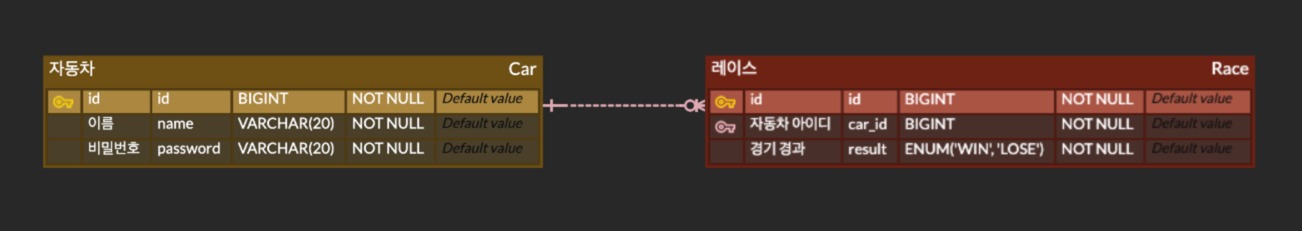
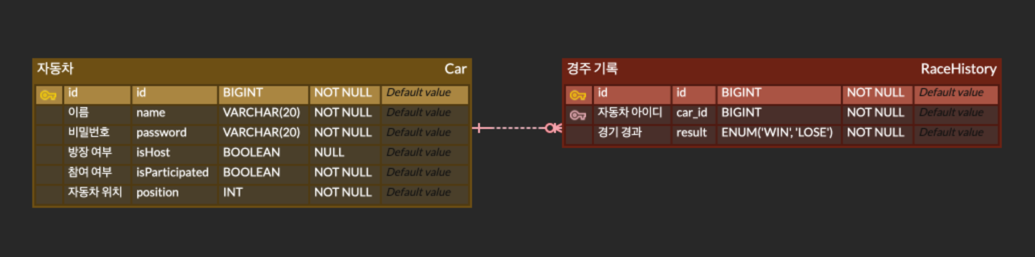
docs: README 업데이트
- 기능 설명 및 시연 추가
- swagger 이미지 추가
- erd 이미지 수정

diff --git a/README.md b/README.md
@@ -1,21 +1,64 @@
-# 오픈 미션
-## 실시간 자동차 경주
+# 오픈 미션 - 실시간 자동차 경주
 
-### 기능 기획
-- 접속하는 사람 = 자동차
-  - 자동차 이름 중복 X
-  - 식별하기 위한 비밀번호 입력
-- 최소 2명 ~ 최대 5명
-- 방이 있는 경우 (접속자가 1명 이상) -> 그 방에 접속 
-- 방이 없는 경우 -> 방 생성
-- 방 생성자(방장)은 2명 이상인 경우 게임 시작 가능
-- 게임 승패 저장
+## 기능 설명 및 시연
+
+### 로그인
+
+- 자동차 이름과 비밀번호를 입력하면 로그인을 합니다.
+- 만약 등록이 되지 않은 자동차라면 자동으로 등록됩니다.
+
+![login1](image/login.gif)
+
+- 로그인(자동차 등록)이 성공하게 되면 로그인 창은 입력/선택을 할 수 없는 상태로 변경됩니다.
+- 로그인 창 아래 뜨는 정보로 자동차의 승패 전적을 확인할 수 있습니다.
+
+![car-history](image/car_history.png)
+
+#### 예외 처리
+
+- 자동차 이름과 비밀번호의 최대 길이는 20자입니다.
+
+  | ![login-exception-1](image/login_exception_1.png) | ![login-exception-2](image/login_exception_2.png) |
+  |---------------------------------------------------|---------------------------------------------------|
+
+### 입장
+
+- 로그인 후 입장 버튼을 누르면 자동차 경주 게임 방으로 이동하게 됩니다.
+- 만약 경주에 아무도 참여하지 않고 있다면 처음 입장한 자동차가 방장이 됩니다.
+
+![enter](image/enter.gif)
+
+- 만약 최대 인원인 5명이 모두 입장한 상태라면 입장할 수 없습니다.
+
+![enter-exception](image/enter_exception.png)
+
+### 경주 시작
+
+- 방장이 시도 횟수를 입력 후 게임 시작 버튼을 누르면, 게임을 시작합니다.
+- 게임 결과는 1초 간격으로 업데이트 됩니다.
+
+![race-start](image/start.gif)
+
+
+- 최종 결과는 팝업으로 표시되며, 한 번 더하기와 나가기 중 선택할 수 있습니다.
+- 한 번 더하기 선택 시 방장은 5초 뒤 다시 게임을 시작할 수 있습니다.
+
+![race-result](image/select_leave.gif)
+
+#### 예외 처리
+
+- 인원이 2명 미만인 경우 게임을 시작하면 예외가 발생합니다.
+- 시도 횟수가 10을 초과한 경우 예외가 발생합니다.
+
+| ![start-exception-1](image/start_exception_1.png) | ![start-exception-2](image/start_exception_2.png) |
+|---------------------------------------------------|---------------------------------------------------|
 
 ---
 
-### Swagger 접속
+## Swagger 접속
 
 - localhost:8080/swagger-ui
+  ![Swagger](image/swagger.png)
 
-### ERD
+## ERD
 ![ERD](image/erd.png)
